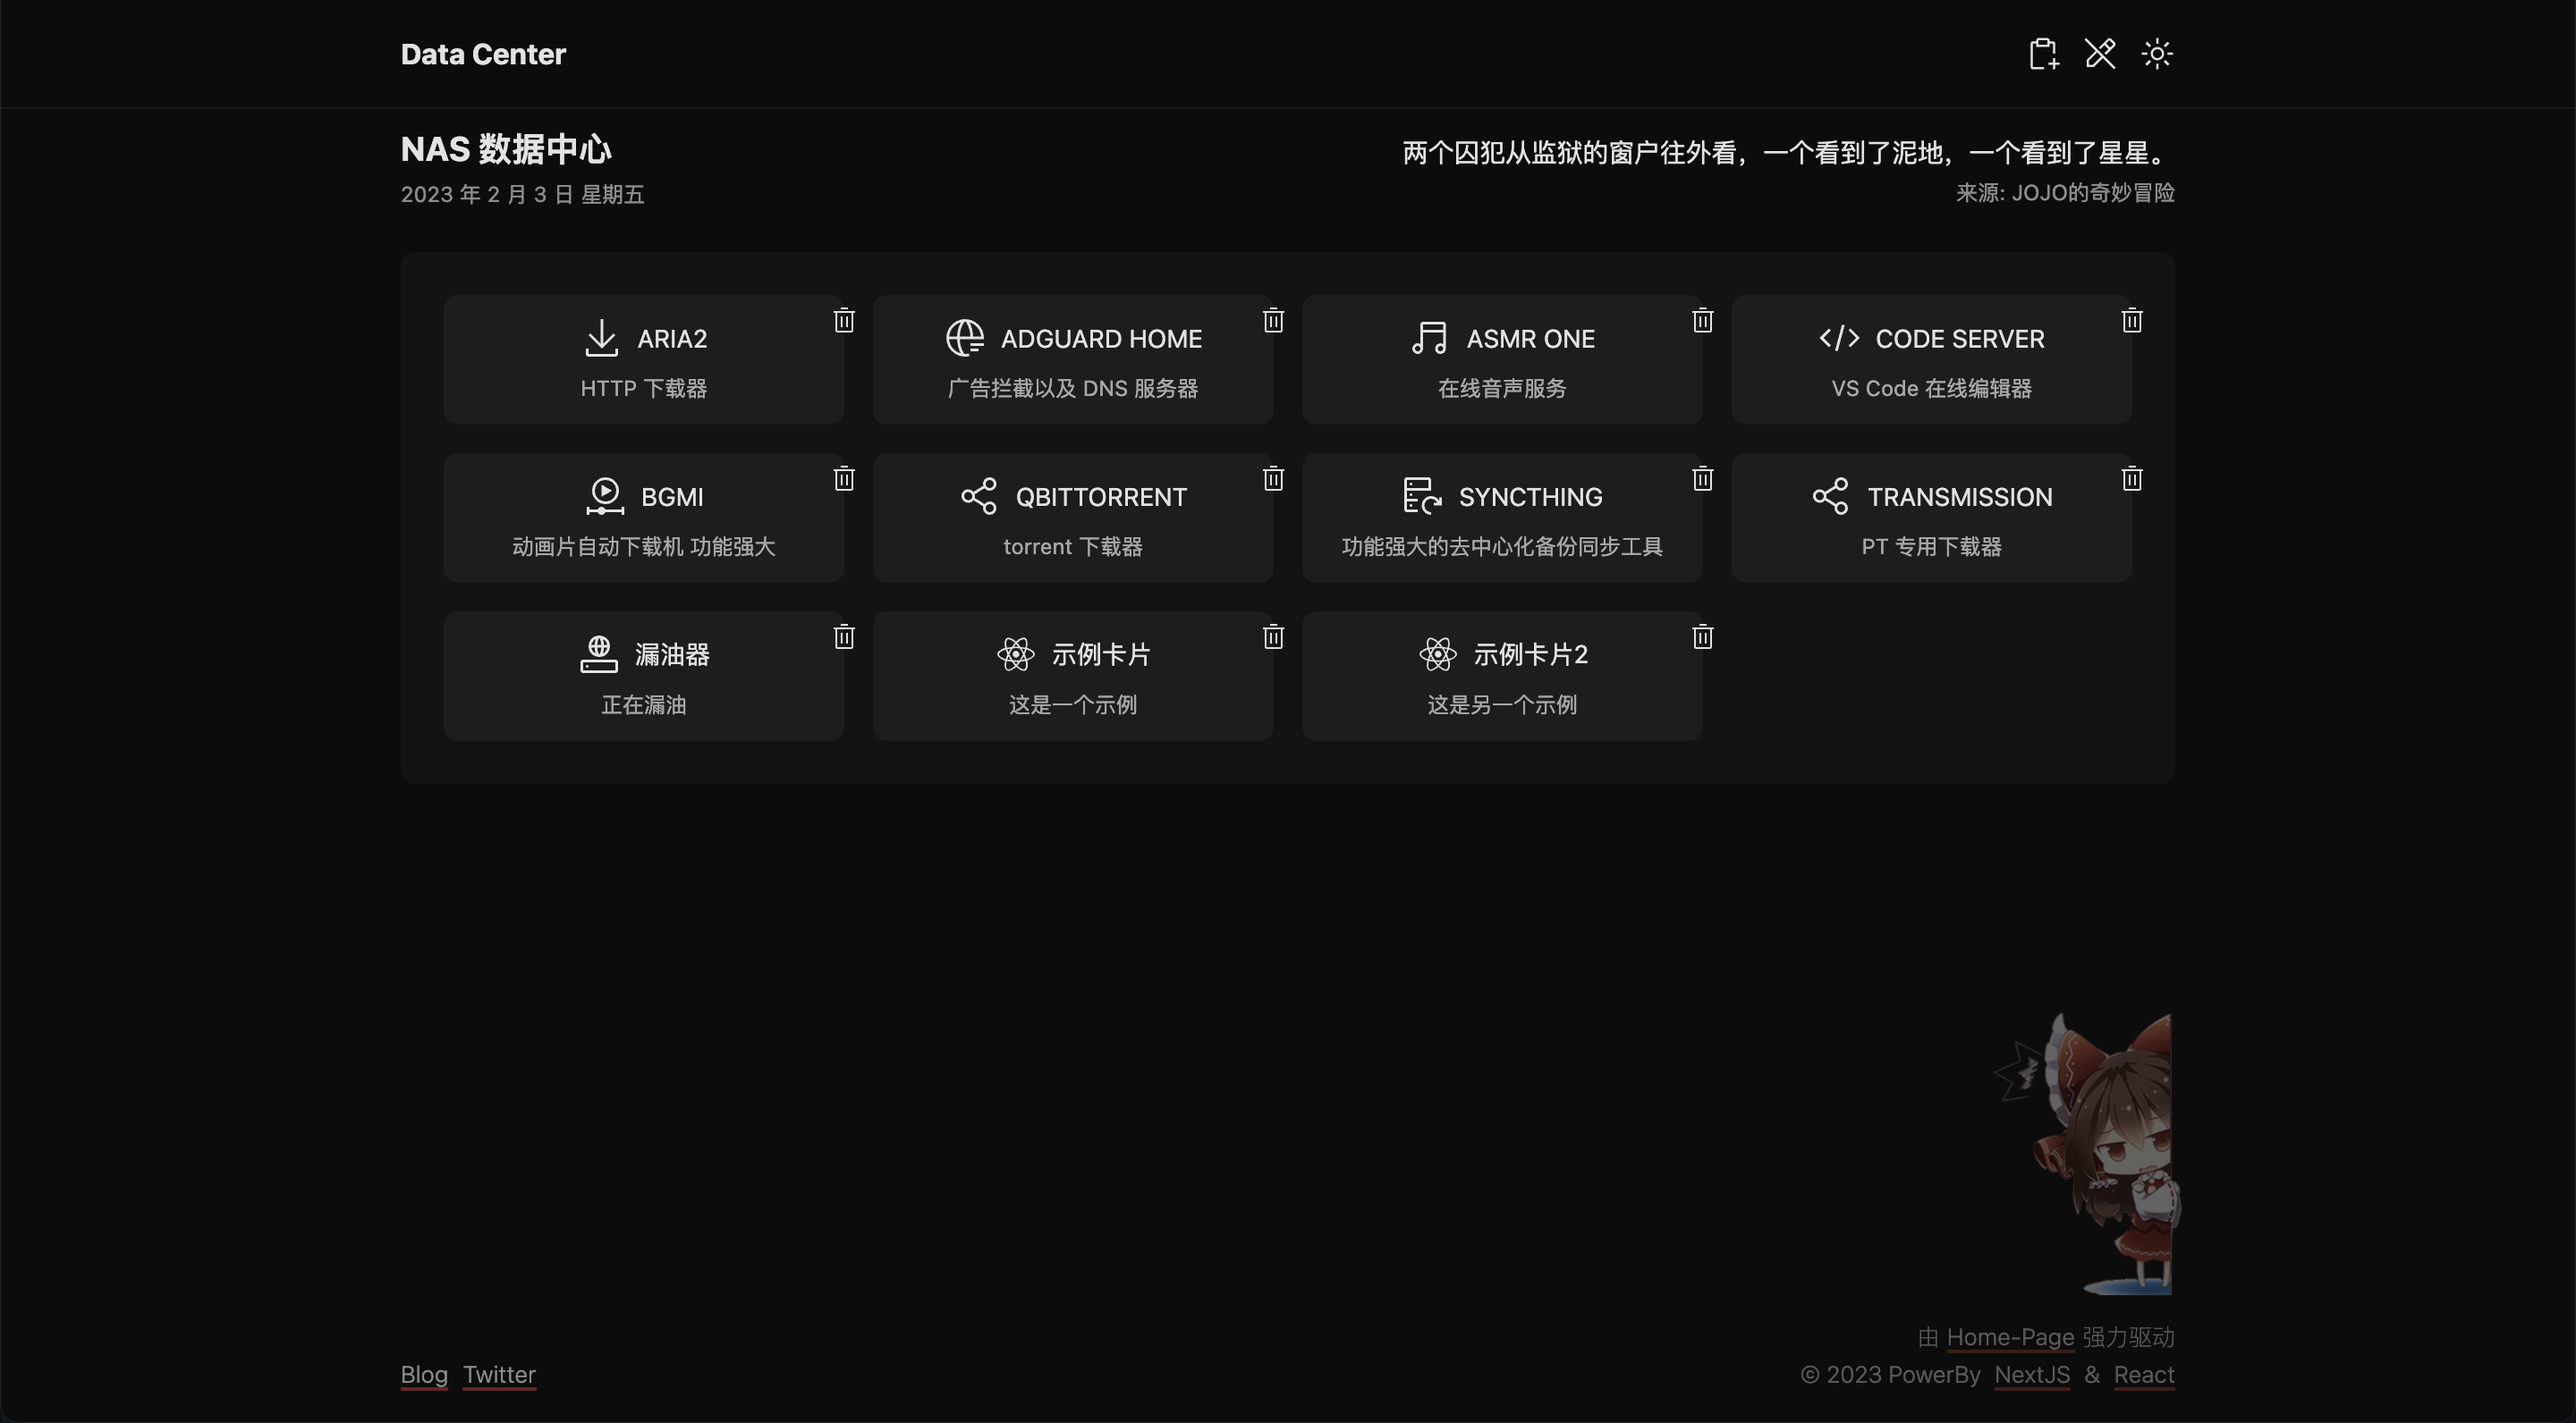
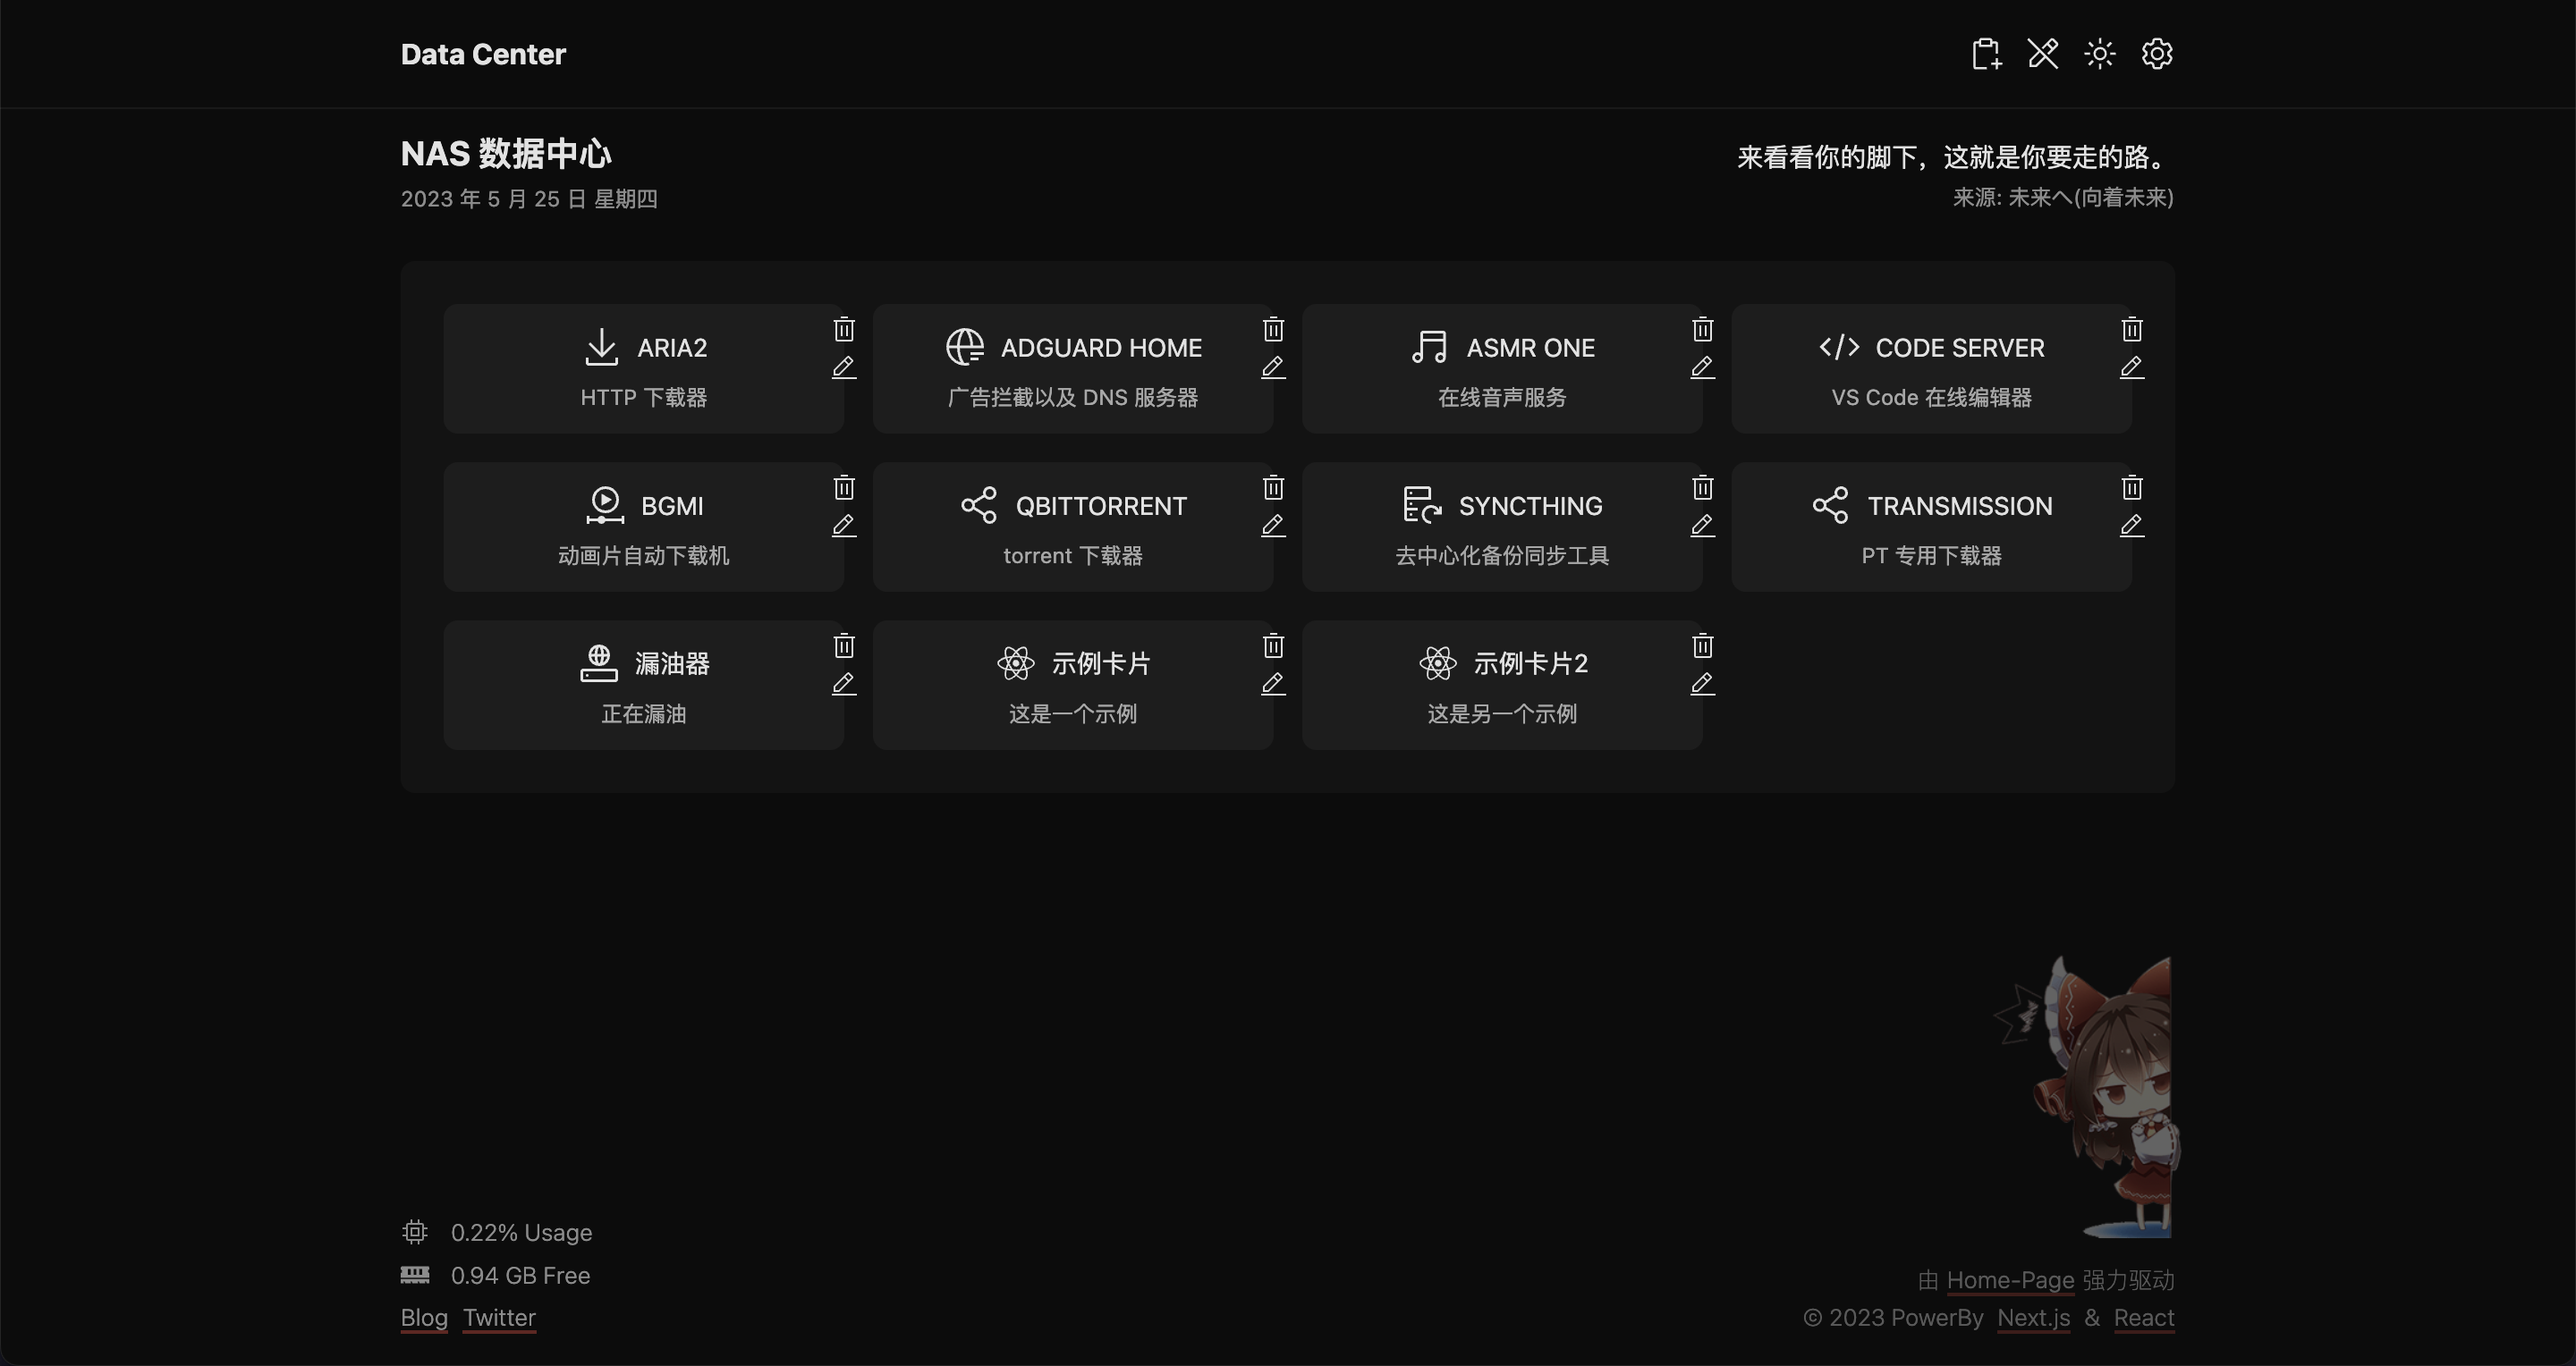
feat: support docker (#7)

diff --git a/src/pages/index.tsx b/src/pages/index.tsx
@@ -5,9 +5,11 @@ import { SWRConfig } from 'swr';
 import Header from '../components/header';
 import DataCenter from '../components/data-center';
 
+import { BLOG, HEADER_TITLE, TITLE, TWITTER } from 'src/lib/constant';
 import type { Service } from 'src/types/services';
+import type { Env } from 'src/types/env';
 
-export default function HomePage({ fallback }: { fallback: { '/api/services': Service[] } }) {
+export default function HomePage({ fallback }: Record<string, any>) {
   return (
     <SWRConfig value={{ fallback }}>
       <Head>
@@ -21,7 +23,13 @@ export default function HomePage({ fallback }: { fallback: { '/api/services': Se
 }
 
 export async function getServerSideProps() {
-  let servicesData = [];
+  let servicesData: Service[] = [];
+  const envData: Env = {
+    title: TITLE,
+    headerTitle: HEADER_TITLE,
+    blog: BLOG,
+    twitter: TWITTER
+  };
 
   if (process.env.API_URL !== '' && process.env.API_URL !== undefined) {
     const res = await fetch(`${process.env.API_URL}/api/services`);
@@ -31,7 +39,8 @@ export async function getServerSideProps() {
   return {
     props: {
       fallback: {
-        '/api/services': servicesData
+        '/api/services': servicesData,
+        '/api/env': envData
       }
     }
   };

diff --git a/src/components/footer/index.tsx b/src/components/footer/index.tsx
@@ -1,9 +1,14 @@
 import { getYear } from 'date-fns';
+import { fetcher } from 'src/lib/fetcher';
+import useSWR from 'swr';
 
 import Link from '../link';
 import SystemInfo from './system-info';
 
+import type { Env } from 'src/types/env';
+
 export default function Footer() {
+  const { data } = useSWR<Env>('/api/env', fetcher);
   return (
     <footer className=" max-w-5xl mx-auto p-3 op-60 mt-8 absolute bottom-2 right-0 left-0">
       <div className="font-300 text-13px flex justify-between items-end w-full">
@@ -12,8 +17,8 @@ export default function Footer() {
             <SystemInfo />
           </div>
           <p className="mt-2">
-            <Link href={process.env.NEXT_PUBLIC_HOME_BLOG || ''}>Blog</Link>
-            <Link href={process.env.NEXT_PUBLIC_HOME_TWITTER || ''}>Twitter</Link>
+            <Link href={data?.blog}>Blog</Link>
+            <Link href={data?.twitter}>Twitter</Link>
           </p>
         </div>
         <div className="text-right dark:op-60">

diff --git a/src/components/data-center/index.tsx b/src/components/data-center/index.tsx
@@ -6,7 +6,11 @@ import ServiceCard from '../service-card';
 
 import { useServices } from 'src/hooks/use-services';
 
+import useSWR from 'swr';
+import { fetcher } from 'src/lib/fetcher';
 import { getYear, getMonth, getDate, getDay } from 'date-fns';
+
+import type { Env } from 'src/types/env';
 
 function DateTag() {
 
@@ -30,12 +34,13 @@ function DateTag() {
 
 export default function DataCenter() {
   const { servicesData } = useServices();
-
+  // docker 动态加载 env
+  const { data } = useSWR<Env>('/api/env', fetcher);
   return (
     <div className="min-h-100vh pt-70px px-4 max-w-5xl mx-auto relative pb-70">
       <div className="flex justify-between items-center min-h-14">
         <div>
-          <h3 className="mb-0 font-bold">{process.env.NEXT_PUBLIC_HOME_TITLE || 'NAS 数据中心'}</h3>
+          <h3 className="mb-0 font-bold">{data?.title}</h3>
           <DateTag />
         </div>
         <div className="text-right text-0.9rem lt-md:w-50% mt-1">

diff --git a/src/components/header/index.tsx b/src/components/header/index.tsx
@@ -2,15 +2,21 @@ import { Divider } from '@geist-ui/core';
 
 import NextLink from 'next/link';
 
-import ThemeToggle from '../theme-toggle';
+import useSWR from 'swr';
+import { fetcher } from 'src/lib/fetcher';
 
+import ThemeToggle from '../theme-toggle';
 import Options from './options';
 
+import type { Env } from 'src/types/env';
+
 export default function Header() {
+  // docker 动态加载 env
+  const { data } = useSWR<Env>('/api/env', fetcher);
   return (
     <header className="fixed top-0 right-0 left-0 z-999 blur-bg">
       <div className="flex justify-between items-center p-4 max-w-5xl mx-auto h-60px">
-        <h4 className="mb-0 font-bold">{process.env.NEXT_PUBLICE_HOME_HEADER_TITLE || 'Data Center'}</h4>
+        <h4 className="mb-0 font-bold">{data?.headerTitle}</h4>
         <div className="flex items-baseline">
           <Options />
           <ThemeToggle />

diff --git a/src/pages/api/env/index.ts b/src/pages/api/env/index.ts
@@ -1,0 +1,18 @@
+import { generatorRespError } from 'src/utils/handler';
+import type { Handler } from 'src/types/next-handler';
+
+const handler: Handler = async (req, res) => {
+  if (req.method !== 'GET')
+    res.status(405).json(generatorRespError(`method ${req.method ?? ''} not supported`));
+
+  const { NEXT_PUBLIC_HOME_TITLE, NEXT_PUBLIC_HOME_HEADER_TITLE, NEXT_PUBLIC_HOME_BLOG, NEXT_PUBLIC_HOME_TWITTER } = process.env;
+
+  res.status(200).json({
+    title: NEXT_PUBLIC_HOME_TITLE,
+    headerTitle: NEXT_PUBLIC_HOME_HEADER_TITLE,
+    blog: NEXT_PUBLIC_HOME_BLOG,
+    twitter: NEXT_PUBLIC_HOME_TWITTER
+  });
+};
+
+export default handler;

diff --git a/next.config.js b/next.config.js
@@ -5,8 +5,9 @@ const nextConfig = withForgetti({
   preset: 'react',
 })({
   reactStrictMode: true, // Recommended for the `pages` directory, default in `app`.
-  distDir: 'dist',
+  output: 'standalone',
   experimental: {
+    outputStandalone: true,
   },
 });
 

diff --git a/src/lib/constant.ts b/src/lib/constant.ts
@@ -1,0 +1,4 @@
+export const TWITTER = process.env.NEXT_PUBLIC_HOME_TWITTER;
+export const BLOG = process.env.NEXT_PUBLIC_HOME_BLOG;
+export const HEADER_TITLE = process.env.NEXT_PUBLIC_HOME_HEADER_TITLE;
+export const TITLE = process.env.NEXT_PUBLIC_HOME_TITLE;

diff --git a/src/types/env.d.ts b/src/types/env.d.ts
@@ -1,0 +1,6 @@
+export interface Env {
+  title?: string
+  headerTitle?: string
+  blog?: string
+  twitter?: string
+}
